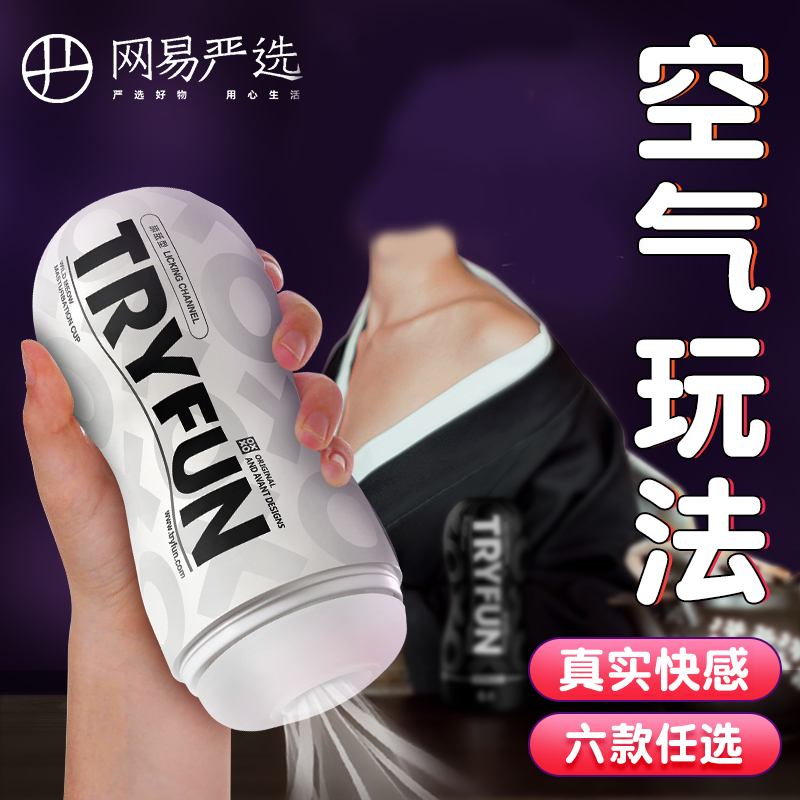
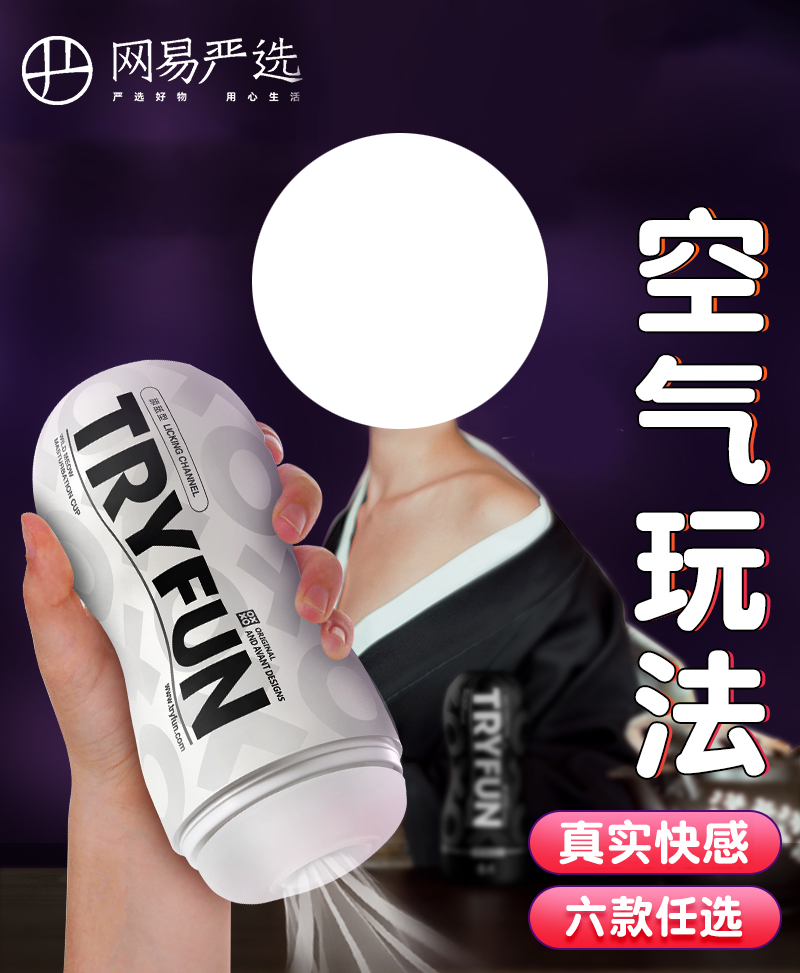
优化 fleshlight_air_play 素材和代码坐标 优化 fleshlight_random 啦啦队偶像文本框问题 优化 fleshlight_random 导入了 pydantic.Field 和相关的 MemeArgsType、ParserArg、ParserOption 类；添加了 Model(MemeArgsModel) 类，包含 number 字段；创建了 args_type 参数类型定义，支持 -n 和 --number 命令行选项；修改了 fleshlight_random 函数，使其接受 Model 类型的参数

diff --git a/emoji/fleshlight_random/__init__.py b/emoji/fleshlight_random/__init__.py
@@ -3,17 +3,48 @@ from pathlib import Path
 import random
 
 from pil_utils import BuildImage
+from pydantic import Field
 
-from meme_generator import MemeArgsModel, add_meme
-from meme_generator.exception import TextOverLength
+from meme_generator import (
+    MemeArgsModel,
+    MemeArgsType,
+    ParserArg,
+    ParserOption,
+    add_meme,
+)
+from meme_generator.exception import TextOverLength, MemeFeedback
 from meme_generator.utils import make_jpg_or_gif
 
 img_dir = Path(__file__).parent / "images"
 
+help_text = "图片编号，范围为 1~25"
 
-def fleshlight_random(images: list[BuildImage], texts: list[str], args: MemeArgsModel):
-    # 随机选择一张背景图片 (0-24.png)
-    random_bg = random.randint(0, 24)
+
+class Model(MemeArgsModel):
+    number: int = Field(0, description=help_text)
+
+
+args_type = MemeArgsType(
+    args_model=Model,
+    parser_options=[
+        ParserOption(
+            names=["-n", "--number"],
+            args=[ParserArg(name="number", value="int")],
+            help_text=help_text,
+        ),
+    ],
+)
+
+
+def fleshlight_random(images: list[BuildImage], texts: list[str], args: Model):
+    total_num = 25
+    if args.number == 0:
+        random_bg = random.randint(1, total_num) - 1  # 转换为0-based索引
+    elif 1 <= args.number <= total_num:
+        random_bg = args.number - 1  # 转换为0-based索引
+    else:
+        raise MemeFeedback(f"图片编号错误，请选择 1~{total_num}")
+
     frame = BuildImage.open(img_dir / f"{random_bg}.png")
 
     ta = "他"
@@ -29,11 +60,11 @@ def fleshlight_random(images: list[BuildImage], texts: list[str], args: MemeArgs
     
     # 为不同的背景图片设置不同的文本位置（bbox: x1, y1, x2, y2）
     text_positions = [
-        (313, 40, 623, 104),    # 图片0.png的文本位置
+        (305, 1, 800, 133),    # 图片0.png的文本位置
         (533, 39, 779, 140),    # 图片1.png的文本位置
         (13, 1039, 430, 1189),   # 图片2.png的文本位置
         (40, 110, 374, 207),    # 图片3.png的文本位置
-        (13, 1039, 430, 1189),   # 图片4.png的文本位置
+        (686, 1100, 1200, 1200),   # 图片4.png的文本位置
         (55, 135, 812, 282),    # 图片5.png的文本位置
         (261, 31, 758, 91),     # 图片6.png的文本位置
         (566, 606, 764, 644),   # 图片7.png的文本位置
@@ -94,7 +125,7 @@ def fleshlight_random(images: list[BuildImage], texts: list[str], args: MemeArgs
             text_bbox,
             text,
             max_fontsize=100,
-            min_fontsize=20,
+            min_fontsize=5,
             lines_align="left",
             font_families=["FZShaoEr-M11S"],
             fill=text_color,  # 添加字体颜色参数
@@ -104,7 +135,7 @@ def fleshlight_random(images: list[BuildImage], texts: list[str], args: MemeArgs
 
     # 为不同的背景图片设置不同的头像位置和大小
     avatar_configs = [
-        {"position": (325, 110), "size": (165, 165)},   # 图片0.png的头像配置
+        {"position": (252, 133), "size": (300, 300)},   # 图片0.png的头像配置
         {"position": (65, 105), "size": (675, 675)},    # 图片1.png的头像配置
         {"position": (290, 20), "size": (920, 920)},    # 图片2.png的头像配置
         {"position": (202, 252), "size": (770, 770)},   # 图片3.png的头像配置
@@ -148,6 +179,7 @@ add_meme(
     max_images=1,
     min_texts=0,
     max_texts=1,
+    args_type=args_type,
     keywords=["随机杯子"],
     date_created=datetime(2025, 9, 2),
     date_modified=datetime(2025, 9, 2),

diff --git a/emoji/fleshlight_air_play/__init__.py b/emoji/fleshlight_air_play/__init__.py
@@ -26,19 +26,20 @@ def fleshlight_air_play(images: list[BuildImage], texts: list[str], args: MemeAr
     #{name}挚爱❤👩❤💋👨{name}愛のカップ。
     try:
         frame.draw_text(
-            (313, 40, 623, 104),
+            (305, 1, 800, 133),
             text,
             fill="white",
             max_fontsize=100,
             min_fontsize=20,
-            valign="bottom",
+            lines_align="left",
+            font_families=["FZXS14"],
         )
     except ValueError:
         raise TextOverLength(name)
 
     def make(imgs: list[BuildImage]) -> BuildImage:
-        img = imgs[0].convert("RGBA").circle().resize((165, 165))
-        return frame.copy().paste(img, (325, 110), alpha=True)
+        img = imgs[0].convert("RGBA").resize((300, 300))
+        return frame.copy().paste(img, (252, 133), alpha=True, below=True)
 
     return make_jpg_or_gif(images, make)
 
@@ -52,5 +53,5 @@ add_meme(
     max_texts=1,
     keywords=["空气玩法"],
     date_created=datetime(2025, 3, 24),
-    date_modified=datetime(2025, 3, 24),
+    date_modified=datetime(2025, 10, 9),
 )
